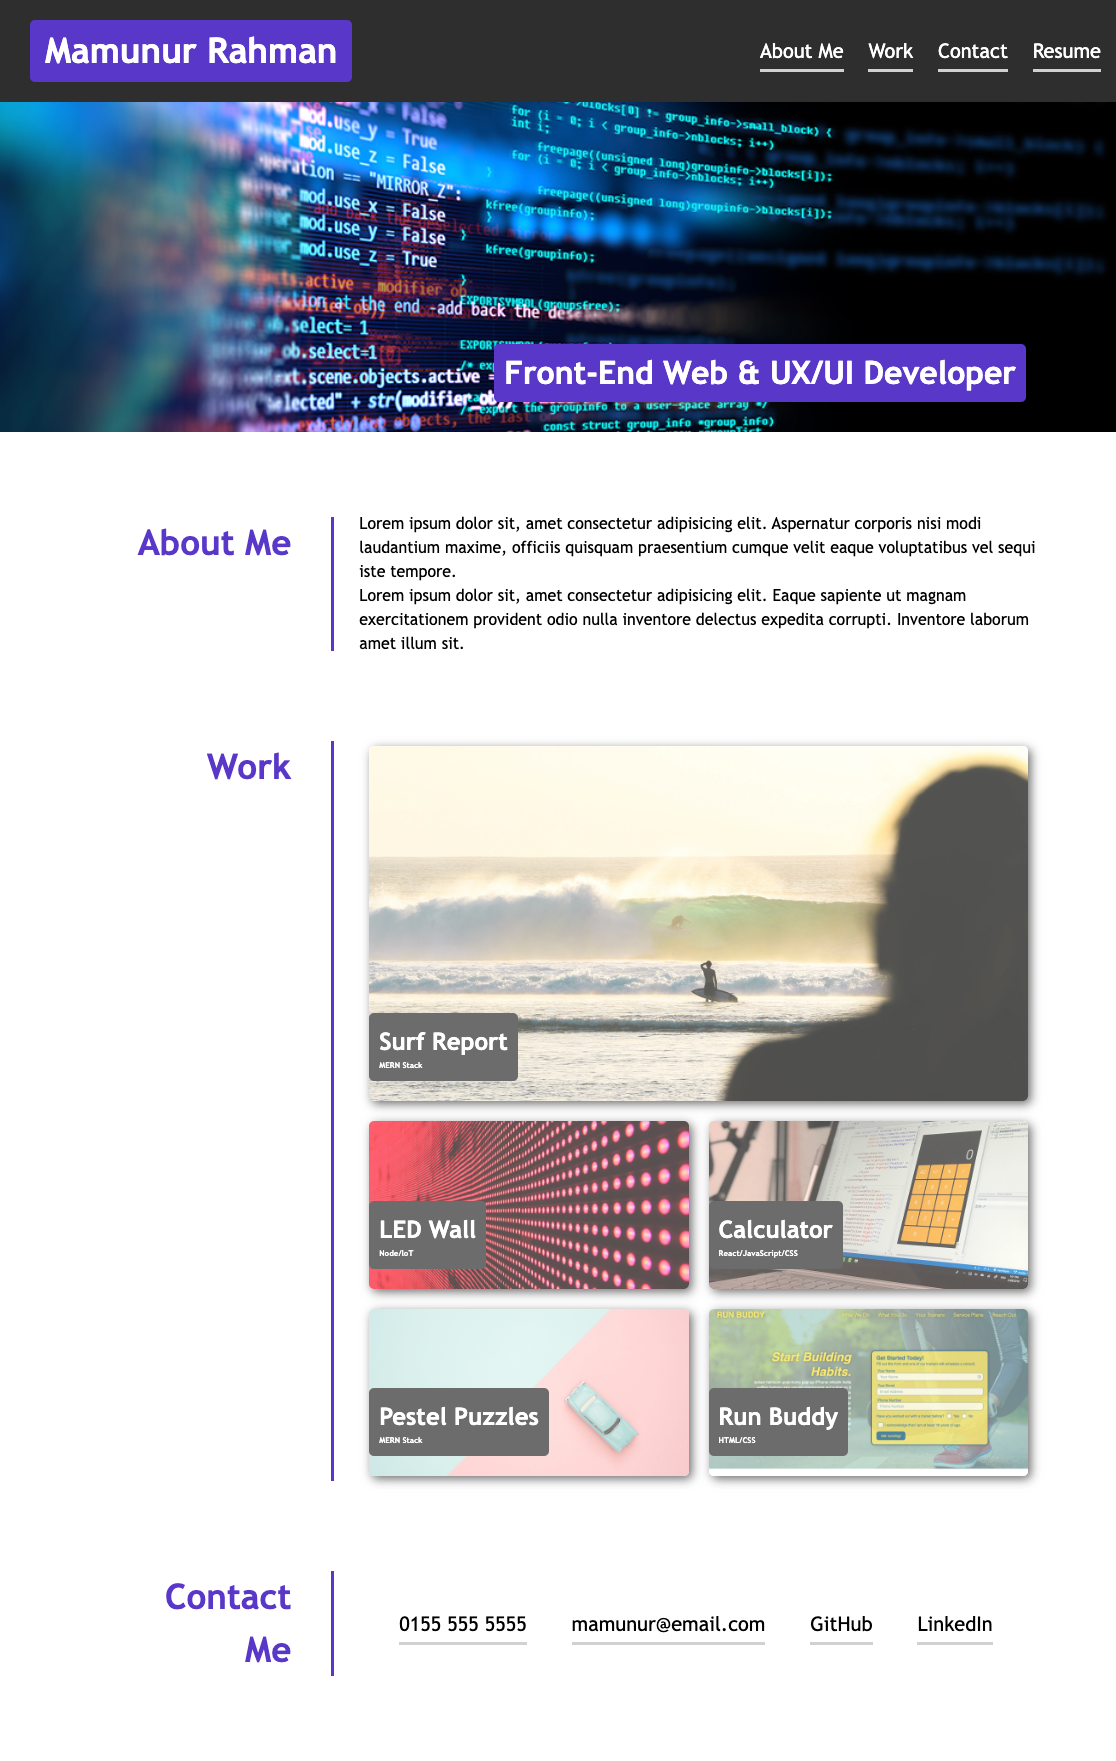
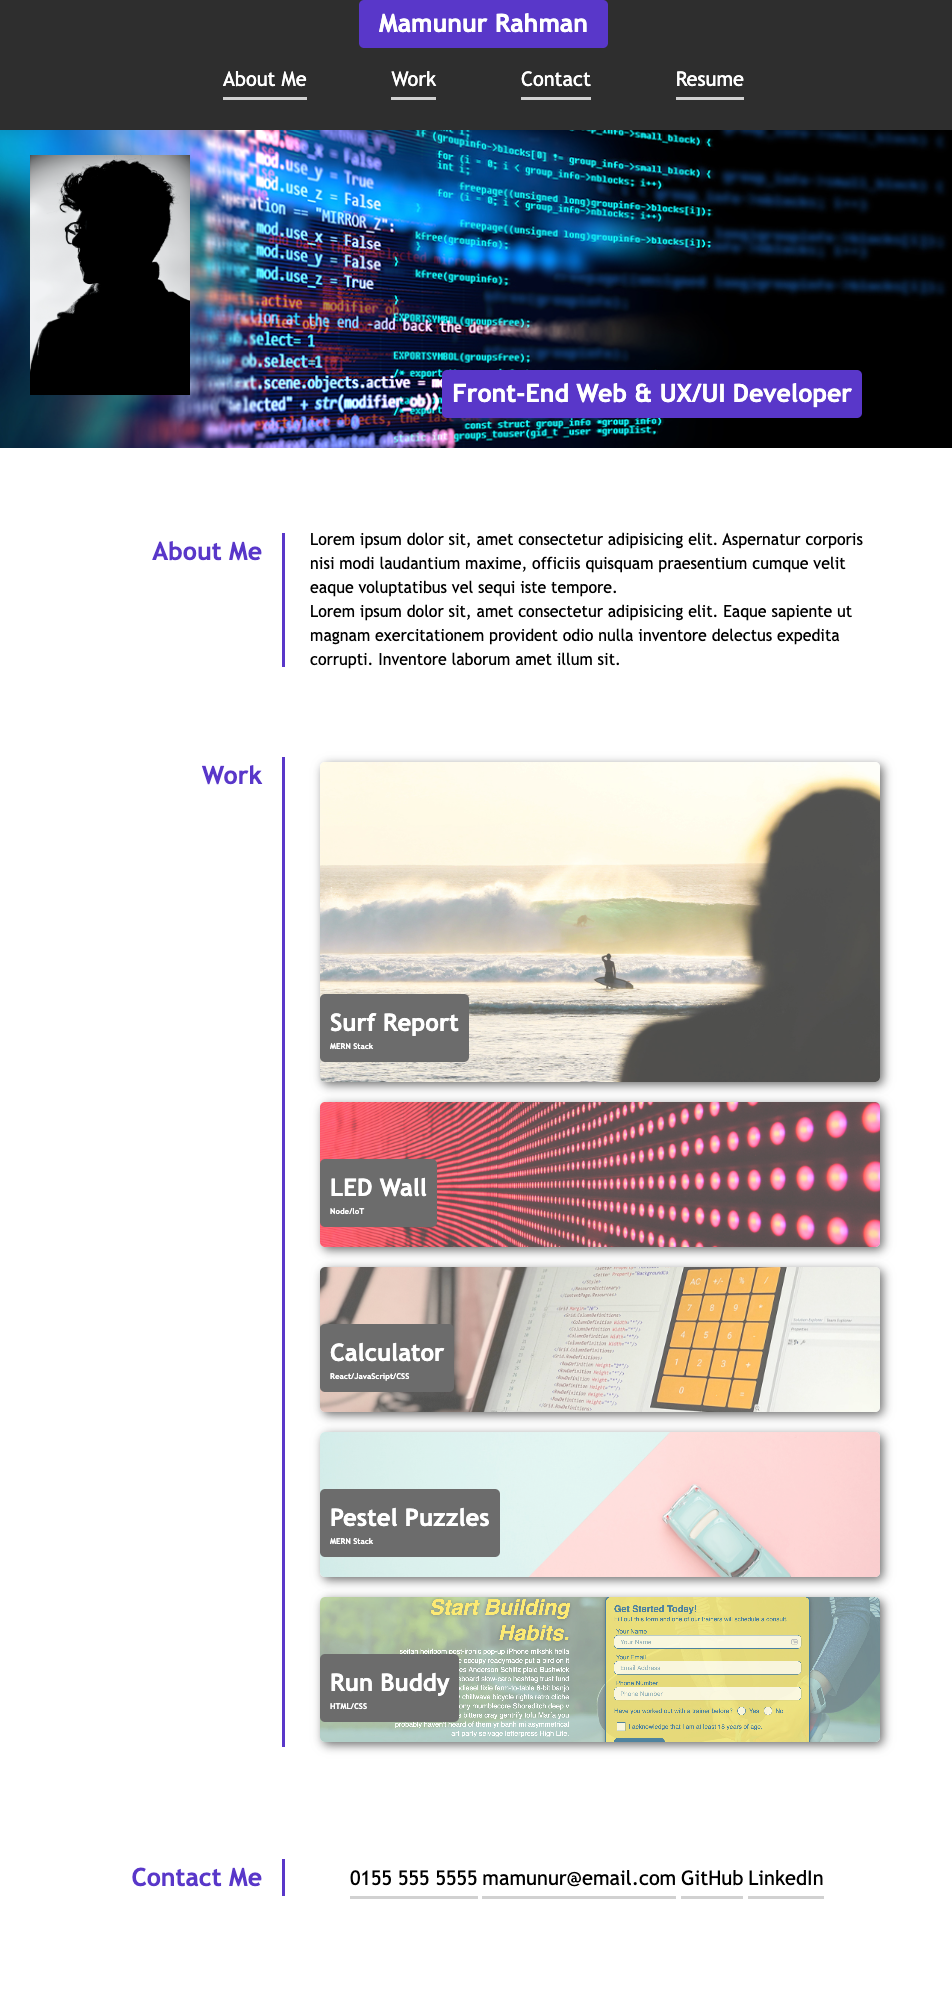
profile picture added with css styling,screenshot updated in readme file

diff --git a/css/style.css b/css/style.css
@@ -68,6 +68,14 @@ nav li a:hover::after {
 
 /* <!-- Hero Banner Section --> */
 
+.avatar {
+  height: 250px;
+  position: absolute;
+  margin: 20px 20px;
+  padding: 5px 10px;
+  border-radius: var(--border-radius);
+}
+
 .hero-banner {
   background-image: url(../images/02-hero-bg.jpg);
   height: 30vh;

diff --git a/index.html b/index.html
@@ -26,6 +26,9 @@
   <!-- hero banner -->
   <section class="hero-banner">
     <div>
+      <img class=avatar src="images/profile.jpg">
+    </div>
+    <div>
       <h2>Front-End Web & UX/UI Developer</h2>
     </div>
   </section>

diff --git a/README.md b/README.md
@@ -16,7 +16,7 @@ Upload the following files to the deployed webserver:
 
 1. index.html
 2. license.txt
-3. assets folder (which includes images and CSS files)
+3. both css and images folders which hold asset files
 
 ## Usage
 
